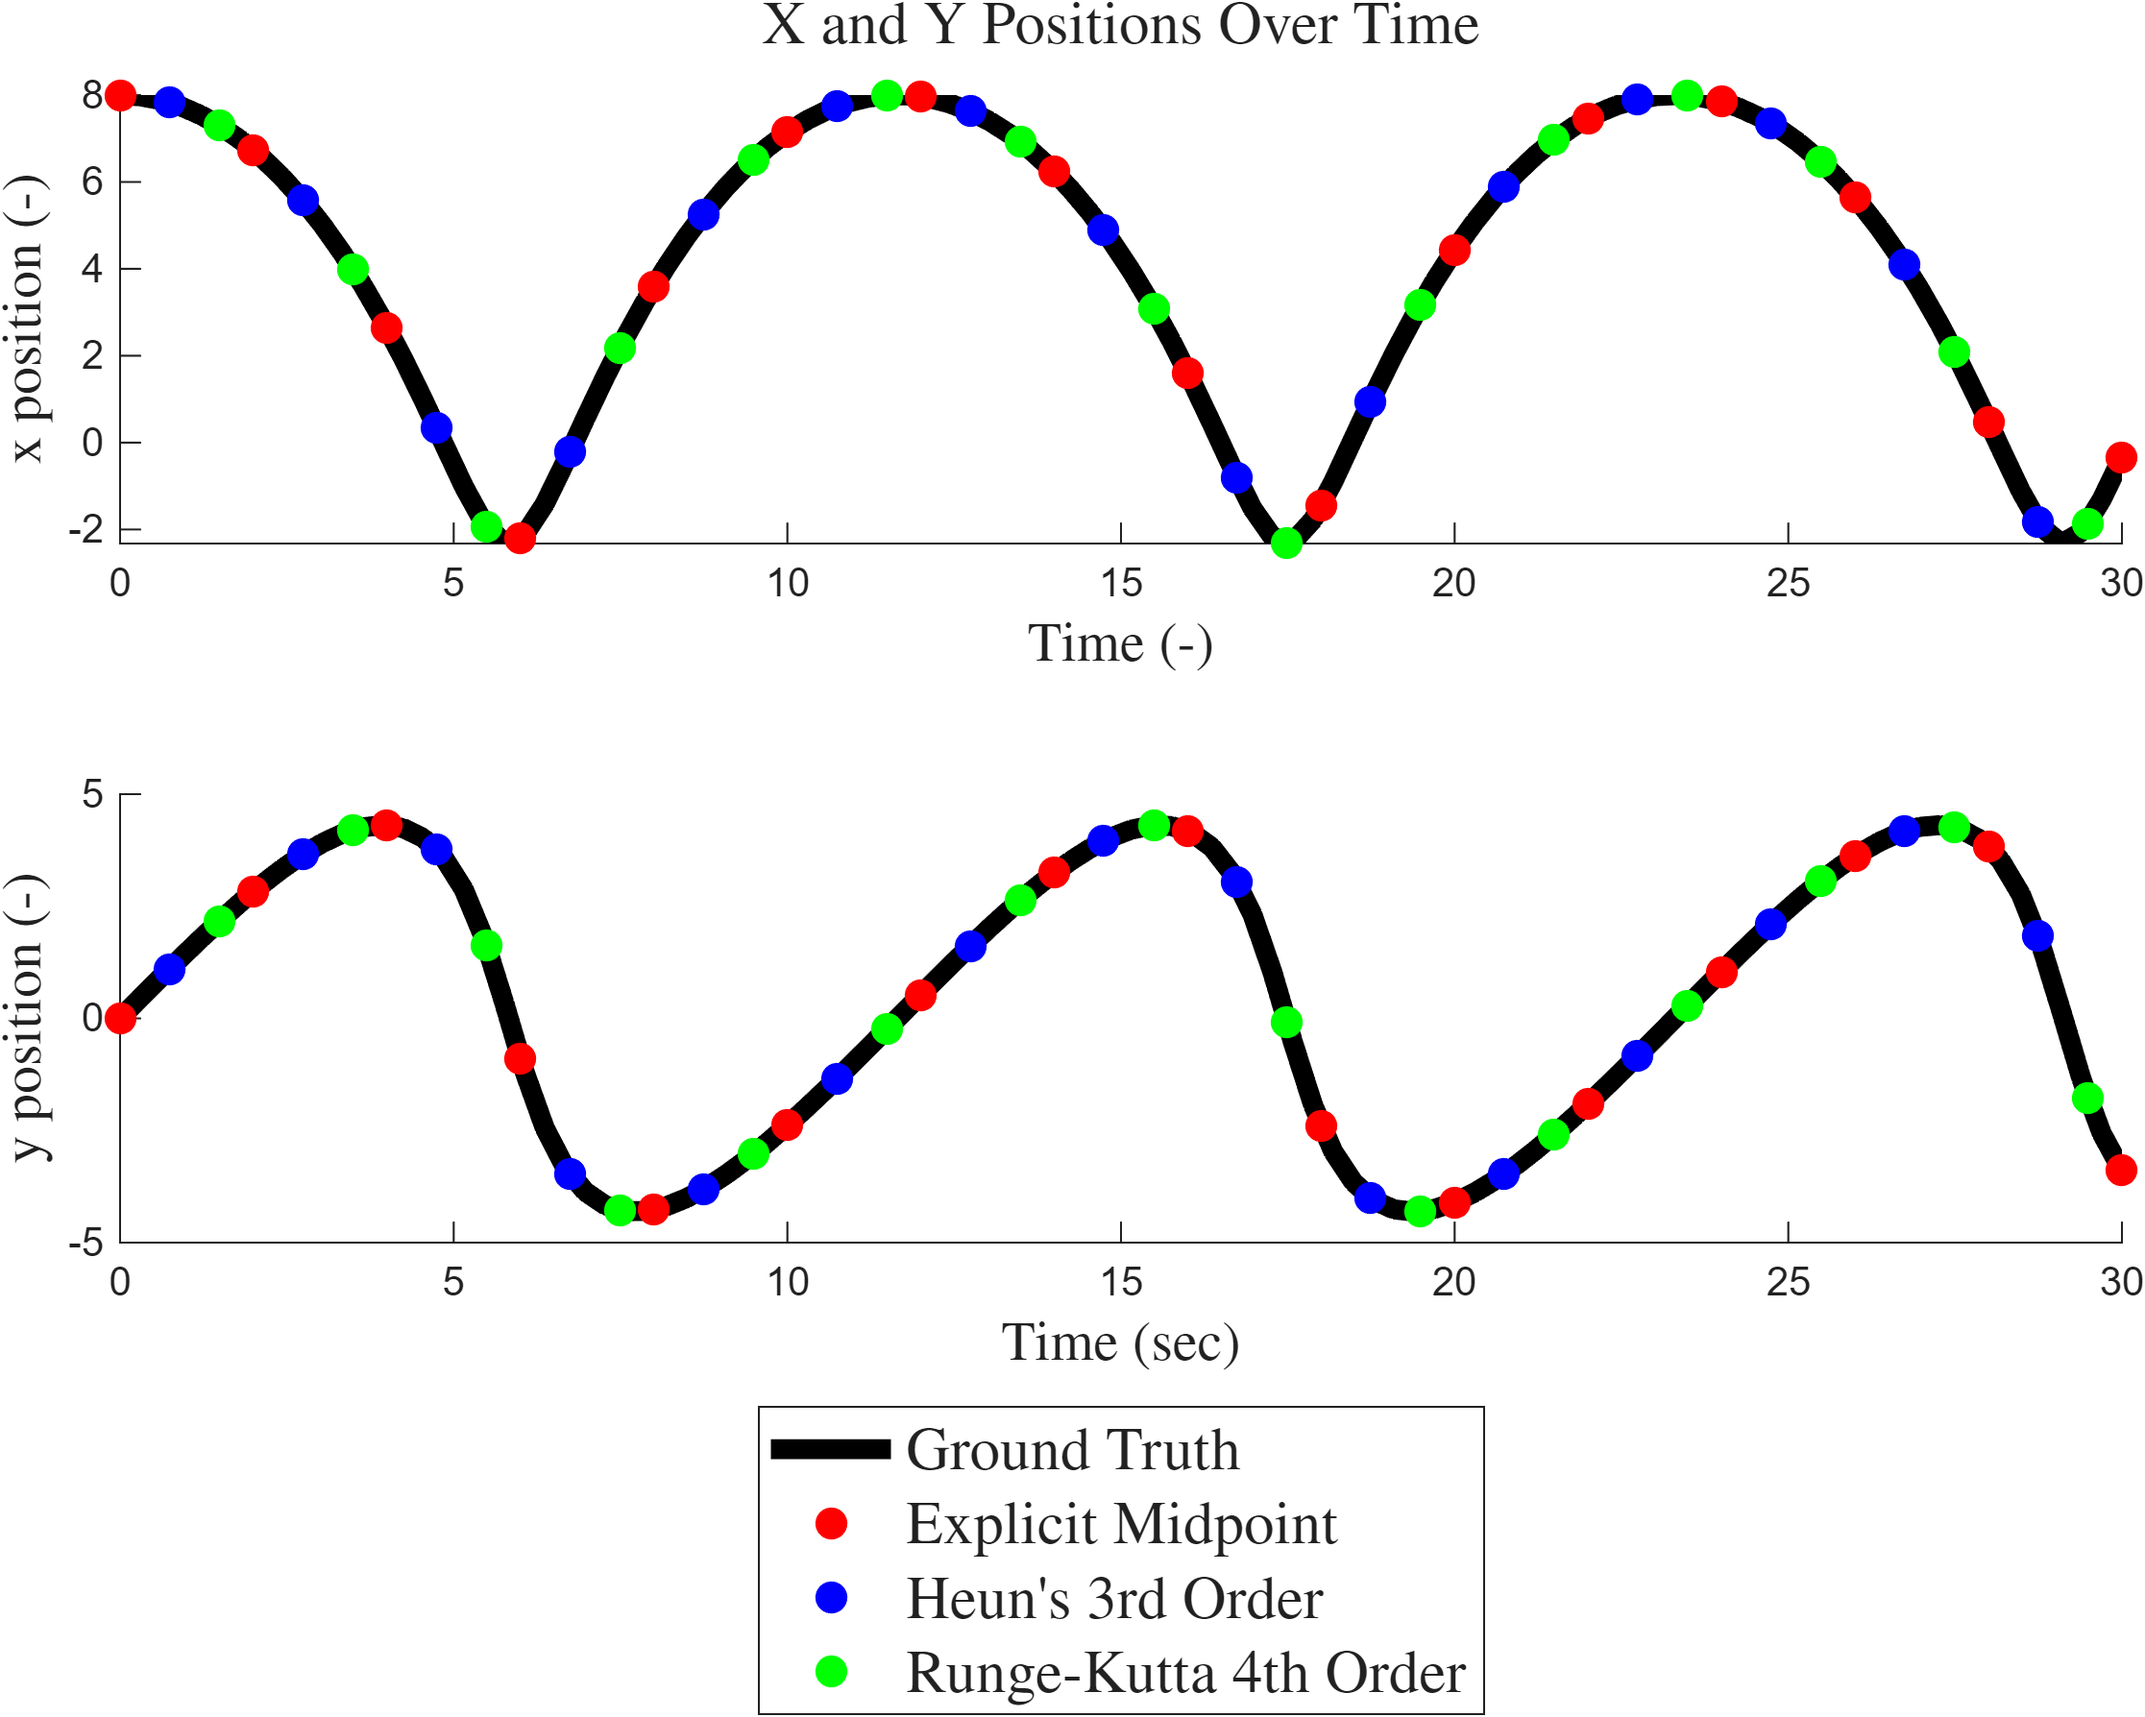
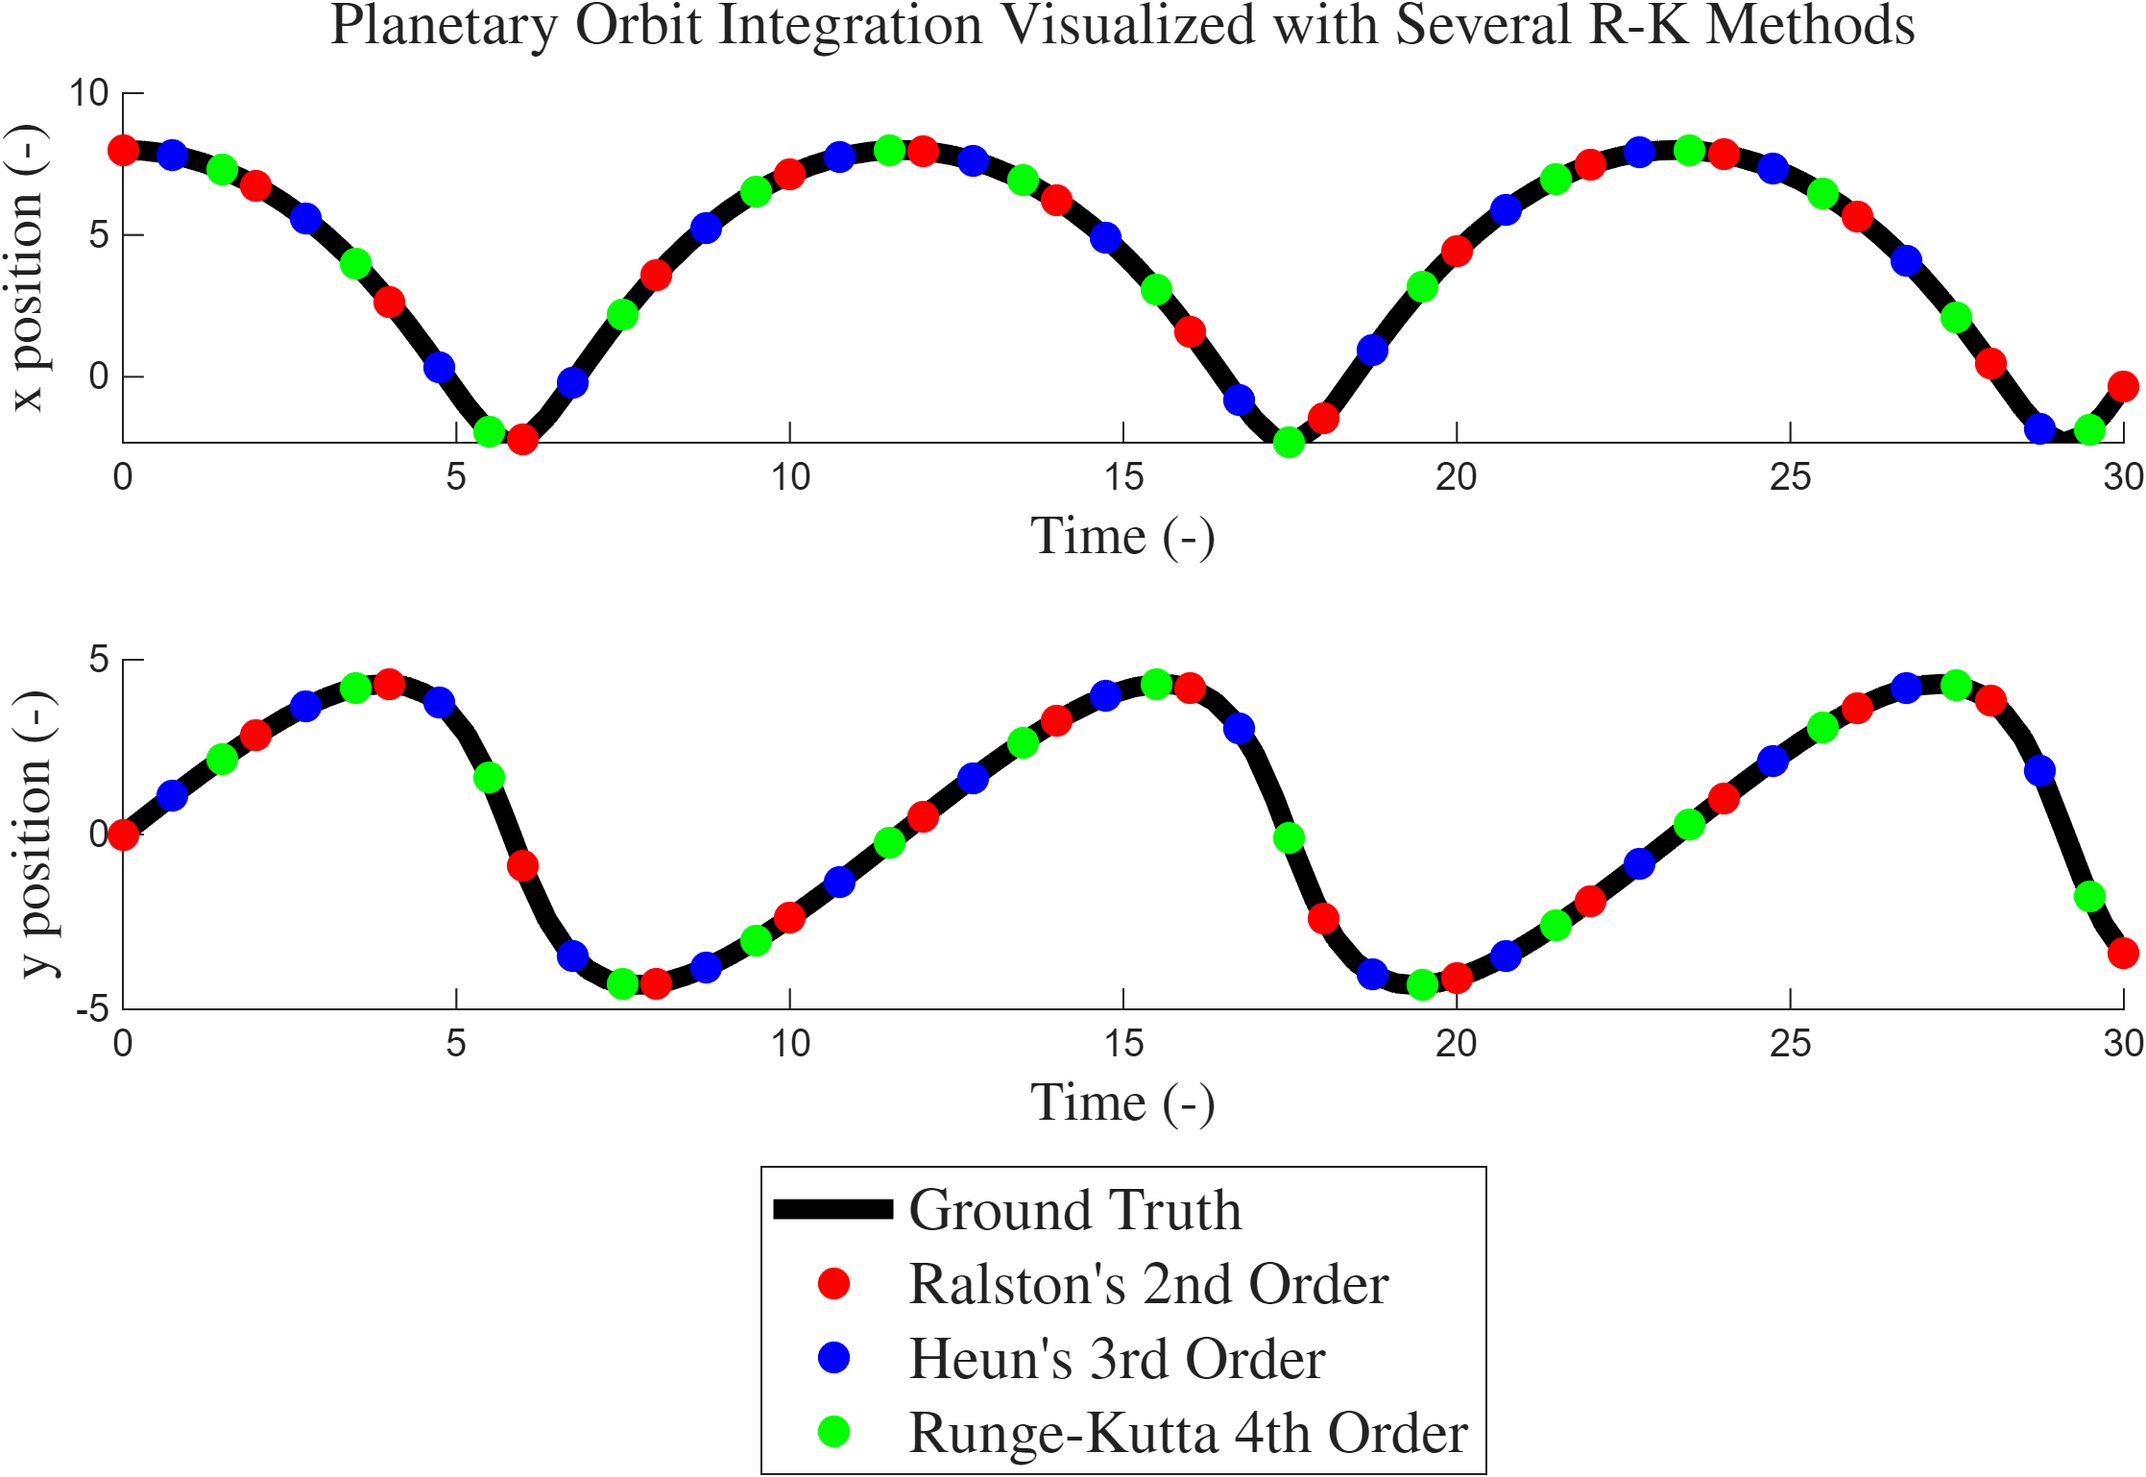
updated plots

diff --git a/rk_testing_planet.m b/rk_testing_planet.m
@@ -1,7 +1,7 @@
-% Explicit Midpoint
-emp_struct.A = [0, 0; .5, 0];
-emp_struct.B = [0, 1];
-emp_struct.C = [0; 1/2];
+% Ralston
+r_struct.A = [0, 0; 2/3, 0];
+r_struct.B = [1/4, 3/4];
+r_struct.C = [0; 2/3];
 
 % Heun's 3rd-order
 h_struct.A = [0, 0, 0; 1/3, 0, 0; 0, 2/3, 0];
@@ -36,50 +36,50 @@ V_list = compute_planetary_motion(t_range,V0,orbit_params);
 gravity_wrapper = @(t, V) gravity_rate_func(t, V, orbit_params);
 
 
-% [emp_t_list,emp_X_list,emp_h_avg, emp_num_evals] = explicit_RK_fixed_step_integration(gravity_wrapper,tspan,V0,h_ref,emp_struct);
-% [h_t_list,h_X_list,h_h_avg, h_num_evals] = explicit_RK_fixed_step_integration(gravity_wrapper,tspan,V0,h_ref,h_struct);
-% [rk4_t_list,rk4_X_list,rk4_h_avg, rk4_num_evals] = explicit_RK_fixed_step_integration(gravity_wrapper,tspan,V0,h_ref,rk4_struct);
-% 
-% figure();
-% axis equal; axis square;
-% axis([-20,20,-20,20])
-% hold on;
-% plot(0,0,'ro','markerfacecolor','r','markersize',5);
-% plot(emp_X_list(1, :),emp_X_list(2, :),'b');
-% plot(h_X_list(1, :),h_X_list(2, :),'g');
-% plot(rk4_X_list(1, :),rk4_X_list(2, :),'r', LineWidth=3);
-% plot(V_list(:,1),V_list(:,2),'k');
-% hold off;
-% 
-% f=figure();
-% tcl = tiledlayout(2, 1);
-% 
-% nexttile(tcl);
-% hold on
-% 
-% plot(t_range, V_list(:, 1), 'k', LineWidth=5);
-% plot(emp_t_list, emp_X_list(1, :), 'o',markerfaceColor='r',MarkerEdgeColor='r', LineWidth=2, MarkerIndices=1:200:length(emp_X_list(1, :)));
-% plot(h_t_list, h_X_list(1, :),'o', markerfaceColor='b',markeredgeColor='b', LineWidth=2, MarkerIndices=75:200:length(h_X_list(1, :)));
-% plot(rk4_t_list, rk4_X_list(1, :), 'o', markerfaceColor='g',markeredgeColor='g', LineWidth=2, MarkerIndices=150:200:length(rk4_X_list(1, :)));
-% xlabel("Time (-)", Interpreter="latex", FontSize=14)
-% ylabel("x position (-)", Interpreter="latex", FontSize=14)
-% hold off;
-% 
-% nexttile(tcl);
-% hold on
-% plot(t_range, V_list(:, 2), 'k', LineWidth=5);
-% plot(emp_t_list, emp_X_list(2, :), 'o',markerfaceColor='r',MarkerEdgeColor='r', LineWidth=2, MarkerIndices=1:200:length(emp_X_list(2, :)));
-% plot(h_t_list, h_X_list(2, :), 'o', markerfaceColor='b',markeredgeColor='b', LineWidth=2, MarkerIndices=75:200:length(h_X_list(2, :)));
-% plot(rk4_t_list, rk4_X_list(2, :), 'o', markerfaceColor='g',markeredgeColor='g', LineWidth=2, MarkerIndices=150:200:length(rk4_X_list(2, :)));
-% xlabel("Time (sec)", Interpreter="latex", FontSize=14)
-% ylabel("y position (-)", Interpreter="latex", FontSize=14)
-% hold off;
-% 
-% sgtitle("X and Y Positions Over Time", Interpreter='latex', FontSize=15)
-% hl = legend(["Ground Truth" "Explicit Midpoint" "Heun's 3rd Order" 'Runge-Kutta 4th Order'],Interpreter='latex', FontSize=15);
-% hl.Layout.Tile = 'South';
-% 
-% exportgraphics(f, 'plots/x_y_pos.png', 'Resolution',300)
+[r_t_list,r_X_list,r_h_avg, r_num_evals] = explicit_RK_fixed_step_integration(gravity_wrapper,tspan,V0,h_ref,r_struct);
+[h_t_list,h_X_list,h_h_avg, h_num_evals] = explicit_RK_fixed_step_integration(gravity_wrapper,tspan,V0,h_ref,h_struct);
+[rk4_t_list,rk4_X_list,rk4_h_avg, rk4_num_evals] = explicit_RK_fixed_step_integration(gravity_wrapper,tspan,V0,h_ref,rk4_struct);
+
+figure();
+axis equal; axis square;
+axis([-20,20,-20,20])
+hold on;
+plot(0,0,'ro','markerfacecolor','r','markersize',5);
+plot(r_X_list(1, :),r_X_list(2, :),'b');
+plot(h_X_list(1, :),h_X_list(2, :),'g');
+plot(rk4_X_list(1, :),rk4_X_list(2, :),'r', LineWidth=3);
+plot(V_list(:,1),V_list(:,2),'k');
+hold off;
+
+f=figure();
+tcl = tiledlayout(2, 1);
+
+nexttile(tcl);
+hold on
+
+plot(t_range, V_list(:, 1), 'k', LineWidth=5);
+plot(r_t_list, r_X_list(1, :), 'o',markerfaceColor='r',MarkerEdgeColor='r', LineWidth=2, MarkerIndices=1:200:length(r_X_list(1, :)));
+plot(h_t_list, h_X_list(1, :),'o', markerfaceColor='b',markeredgeColor='b', LineWidth=2, MarkerIndices=75:200:length(h_X_list(1, :)));
+plot(rk4_t_list, rk4_X_list(1, :), 'o', markerfaceColor='g',markeredgeColor='g', LineWidth=2, MarkerIndices=150:200:length(rk4_X_list(1, :)));
+xlabel("Time (-)", Interpreter="latex", FontSize=14)
+ylabel("x position (-)", Interpreter="latex", FontSize=14)
+hold off;
+
+nexttile(tcl);
+hold on
+plot(t_range, V_list(:, 2), 'k', LineWidth=5);
+plot(r_t_list, r_X_list(2, :), 'o',markerfaceColor='r',MarkerEdgeColor='r', LineWidth=2, MarkerIndices=1:200:length(r_X_list(2, :)));
+plot(h_t_list, h_X_list(2, :), 'o', markerfaceColor='b',markeredgeColor='b', LineWidth=2, MarkerIndices=75:200:length(h_X_list(2, :)));
+plot(rk4_t_list, rk4_X_list(2, :), 'o', markerfaceColor='g',markeredgeColor='g', LineWidth=2, MarkerIndices=150:200:length(rk4_X_list(2, :)));
+xlabel("Time (-)", Interpreter="latex", FontSize=14)
+ylabel("y position (-)", Interpreter="latex", FontSize=14)
+hold off;
+
+sgtitle("Planetary Orbit Integration Visualized with Several R-K Methods", Interpreter='latex', FontSize=15)
+hl = legend(["Ground Truth" "Ralston's 2nd Order" "Heun's 3rd Order" 'Runge-Kutta 4th Order'],Interpreter='latex', FontSize=15);
+hl.Layout.Tile = 'South';
+
+%exportgraphics(f, 'plots/x_y_pos.png', 'Resolution',300)
 
 
 %% 
@@ -96,21 +96,21 @@ V_list = compute_planetary_motion(t_range,V0,orbit_params);
 XA = V0;
 gt = V_list(end,:);
 
-emp_err_list = [];
+r_err_list = [];
 h_err_list = [];
 rk4_err_list = [];
 
 
 for i = 1:length(h_step)
-    [emp_t_list,emp_X_list,emp_h_avg, emp_num_evals] = explicit_RK_fixed_step_integration(gravity_wrapper,t_ref,V0,h_step(i),emp_struct);
+    [r_t_list,r_X_list,r_h_avg, r_num_evals] = explicit_RK_fixed_step_integration(gravity_wrapper,t_ref,V0,h_step(i),r_struct);
     [h_t_list,h_X_list,h_h_avg, h_num_evals] = explicit_RK_fixed_step_integration(gravity_wrapper,t_ref,V0,h_step(i),h_struct);
     [rk4_t_list,rk4_X_list,rk4_h_avg, rk4_num_evals] = explicit_RK_fixed_step_integration(gravity_wrapper,t_ref,V0,h_step(i),rk4_struct);
     
-    XB_emp = emp_X_list(:,end);
+    XB_r = r_X_list(:,end);
     XB_h = h_X_list(:,end);
     XB_rk4 = rk4_X_list(:,end);
 
-    emp_err_list = [emp_err_list, norm(XB_emp - gt')];
+    r_err_list = [r_err_list, norm(XB_r - gt')];
     h_err_list = [h_err_list, norm(XB_h - gt')];
     rk4_err_list = [rk4_err_list, norm(XB_rk4 - gt')];
 
@@ -140,8 +140,8 @@ end
 
 
 
-emp_p = polyfit(log(h_step), log(emp_err_list), 1)
-f_emp = exp(polyval(emp_p, log(h_step)));
+r_p = polyfit(log(h_step), log(r_err_list), 1)
+f_r = exp(polyval(r_p, log(h_step)));
 
 h_p = polyfit(log(h_step), log(h_err_list), 1)
 f_h = exp(polyval(h_p, log(h_step)));
@@ -151,18 +151,18 @@ f_rk4 = exp(polyval(rk4_p, log(h_step)));
 
 
 figure();
-scatter(h_step, emp_err_list, 60,'filled',"r")
+scatter(h_step, r_err_list, 60,'filled',"r")
 hold on
 scatter(h_step, h_err_list,60,'filled',"b")
 scatter(h_step, rk4_err_list,60,'filled',"g")
 
-plot(h_step, f_emp, '-', LineWidth=3, Color="k")
+plot(h_step, f_r, '-', LineWidth=3, Color="k")
 plot(h_step, f_h, '-', LineWidth=3, Color="k")
 plot(h_step, f_rk4, '-', LineWidth=3, Color="k")
 hold off
 set(gca,'xscale','log')
 set(gca,'yscale','log')
-% legend(["Explicit Midpoint Measured","Heun's 3rd Order Measured", "Runge-Kutta 4th Order Measured", "Fit Lines"], Location = "southeast", Interpreter="latex", FontSize=14)
+legend(["Ralston's 2nd Order Measured","Heun's 3rd Order Measured", "Runge-Kutta 4th Order Measured", "Fit Lines"], Location = "southeast", Interpreter="latex", FontSize=14)
 xlabel("Time Step - $h$ (-)", Interpreter="latex", FontSize=14)
 ylabel("Global Truncation Error (-)", Interpreter="latex", FontSize=14)
 %axis([0 4*pi -1.5 1.5])

diff --git a/rk_planet_testing_variable.m b/rk_planet_testing_variable.m
@@ -197,7 +197,7 @@ nexttile(tcl);
 hold on
 
 plot(t_range, V_list(:, 1), 'k', LineWidth=5);
-plot(v_t_list, v_X_list(1, :), 'ro-',markerfaceColor='r',MarkerEdgeColor='r', LineWidth=2, MarkerIndices=1:10:length(v_X_list(1, :)));
+plot(v_t_list, v_X_list(1, :), 'ro-',markerfaceColor='r',MarkerEdgeColor='r', LineWidth=2, MarkerIndices=1:150:length(v_X_list(1, :)));
 xlabel("Time (-)", Interpreter="latex", FontSize=14)
 ylabel("x position (-)", Interpreter="latex", FontSize=14)
 hold off;
@@ -205,16 +205,16 @@ hold off;
 nexttile(tcl);
 hold on
 plot(t_range, V_list(:, 2), 'k', LineWidth=5);
-plot(v_t_list, v_X_list(2, :), 'ro-',markerfaceColor='r',MarkerEdgeColor='r', LineWidth=2, MarkerIndices=1:10:length(v_X_list(2, :)));
+plot(v_t_list, v_X_list(2, :), 'ro-',markerfaceColor='r',MarkerEdgeColor='r', LineWidth=2, MarkerIndices=1:150:length(v_X_list(2, :)));
 xlabel("Time (-)", Interpreter="latex", FontSize=14)
 ylabel("y position (-)", Interpreter="latex", FontSize=14)
 hold off;
 
-sgtitle("X and Y Positions Over Time", Interpreter='latex', FontSize=15)
+sgtitle("Variable Timestep Clustering Visualization: Bogacki", Interpreter='latex', FontSize=15)
 hl = legend(["Ground Truth" "Variable Timestep"],Interpreter='latex', FontSize=15);
 hl.Layout.Tile = 'South';
 % 
-% exportgraphics(f, 'plots/variable_step_size_x_y_pos.png', 'Resolution',300)
+exportgraphics(f, 'plots/variable_step_size_x_y_pos.png', 'Resolution',300)
 %% 
 
 f = figure();

diff --git a/embedded_local_trunc.m b/embedded_local_trunc.m
@@ -79,7 +79,7 @@ scatter(h_step, gt_err_list, 50, "filled", "k");
 hold off
 set(gca,'xscale','log')
 set(gca,'yscale','log')
-legend(["XB1 Measured","XB2 Measured", "XB1-XB2 Measured", "Ground Truth Measured"], Location = "southeast", Interpreter="latex", FontSize=16)
+legend(["Higher Order Error Measured","Lower Order Error Measured", "Error Difference Measured", "Ground Truth Measured"], Location = "southeast", Interpreter="latex", FontSize=14)
 xlabel("Time Step $h$ (-)", Interpreter="latex", FontSize=16)
 ylabel("Local Truncation Error (-)", Interpreter="latex", FontSize=16)
 % axis([1e-1.5 1e0.5 1e-6 1e2])
